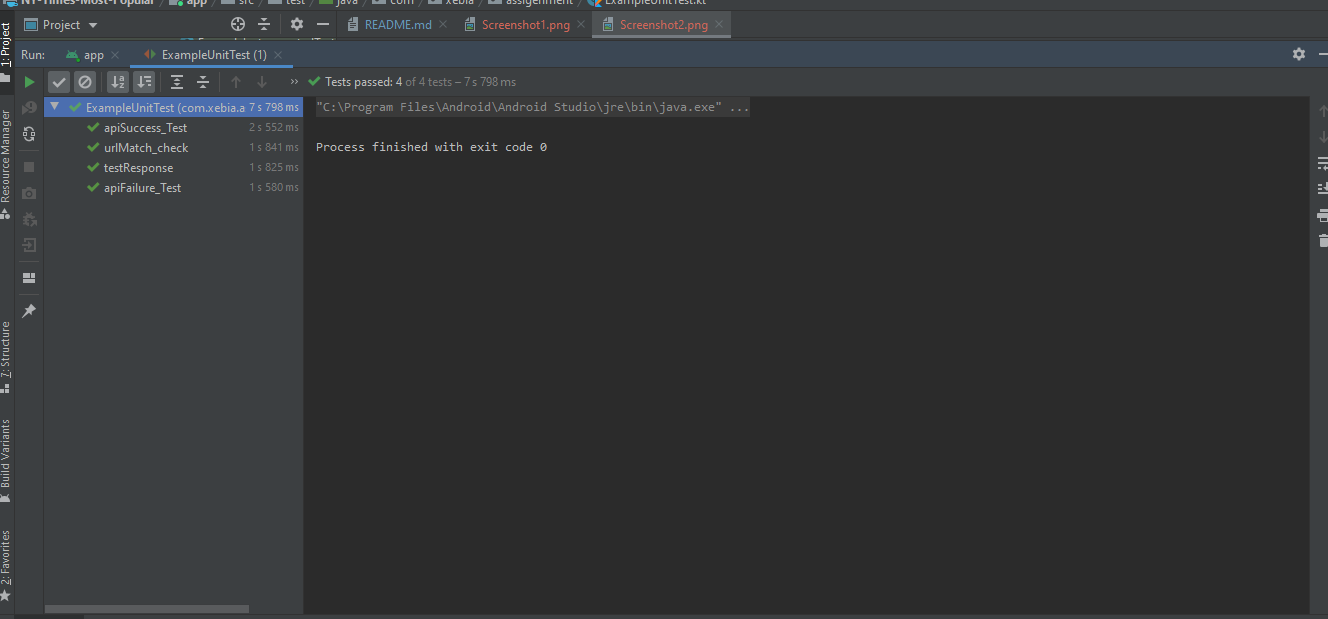
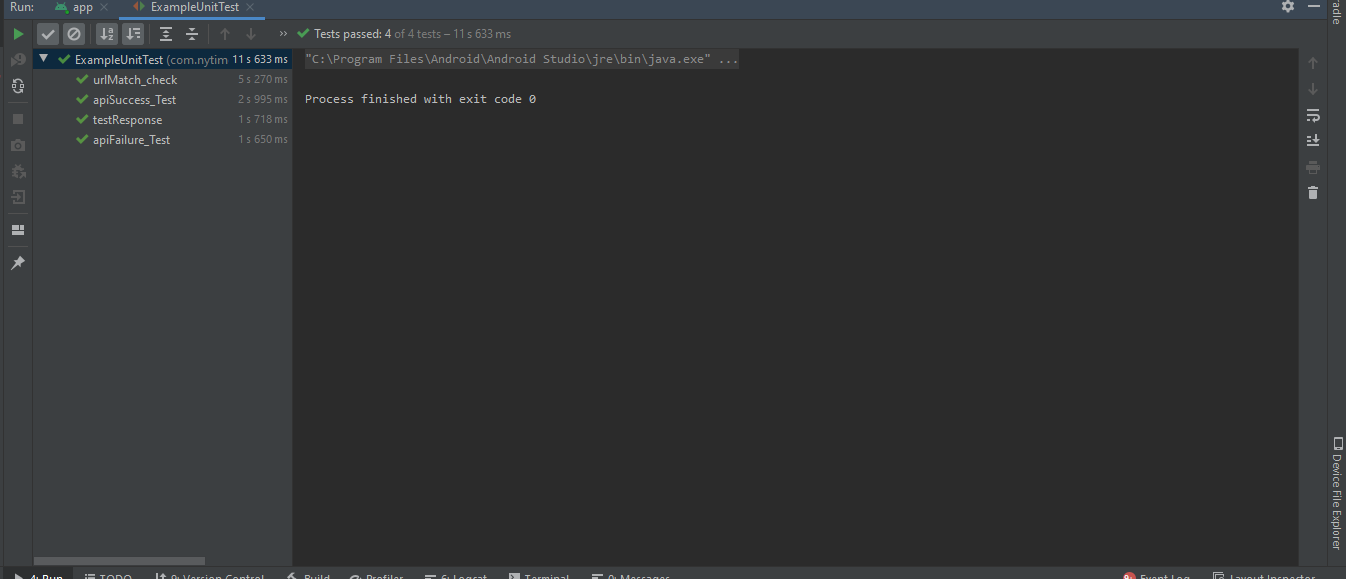
Commit: Add Screen Shot

diff --git a/README.md b/README.md
@@ -29,7 +29,8 @@ MVVM-NY-Times-Most-Popular-Articles-Android is MVVM sample project which shows p
 ## UI Testing Screenshot
 
 
-<img src="UITestScreenshot.png"/>
+<img src="UI_Unit_Test_Case_1.png" width="250"/>
+<img src="UI_Unit_Test_Case_2.png" width="250"/>
 
 
 
@@ -44,7 +45,7 @@ MVVM-NY-Times-Most-Popular-Articles-Android is MVVM sample project which shows p
 A coverage report can be generated using `gradlew createDebugCoverageReport`command-line via Gradle
 Then you can find it at  `app\build\reports\coverage\debug\index.html`
 
-<img src="CoverageReportScreenshot.png"/>
+<img src="Test_Case_Coverage.png"/>
 
 
 Build the project from the command-line
